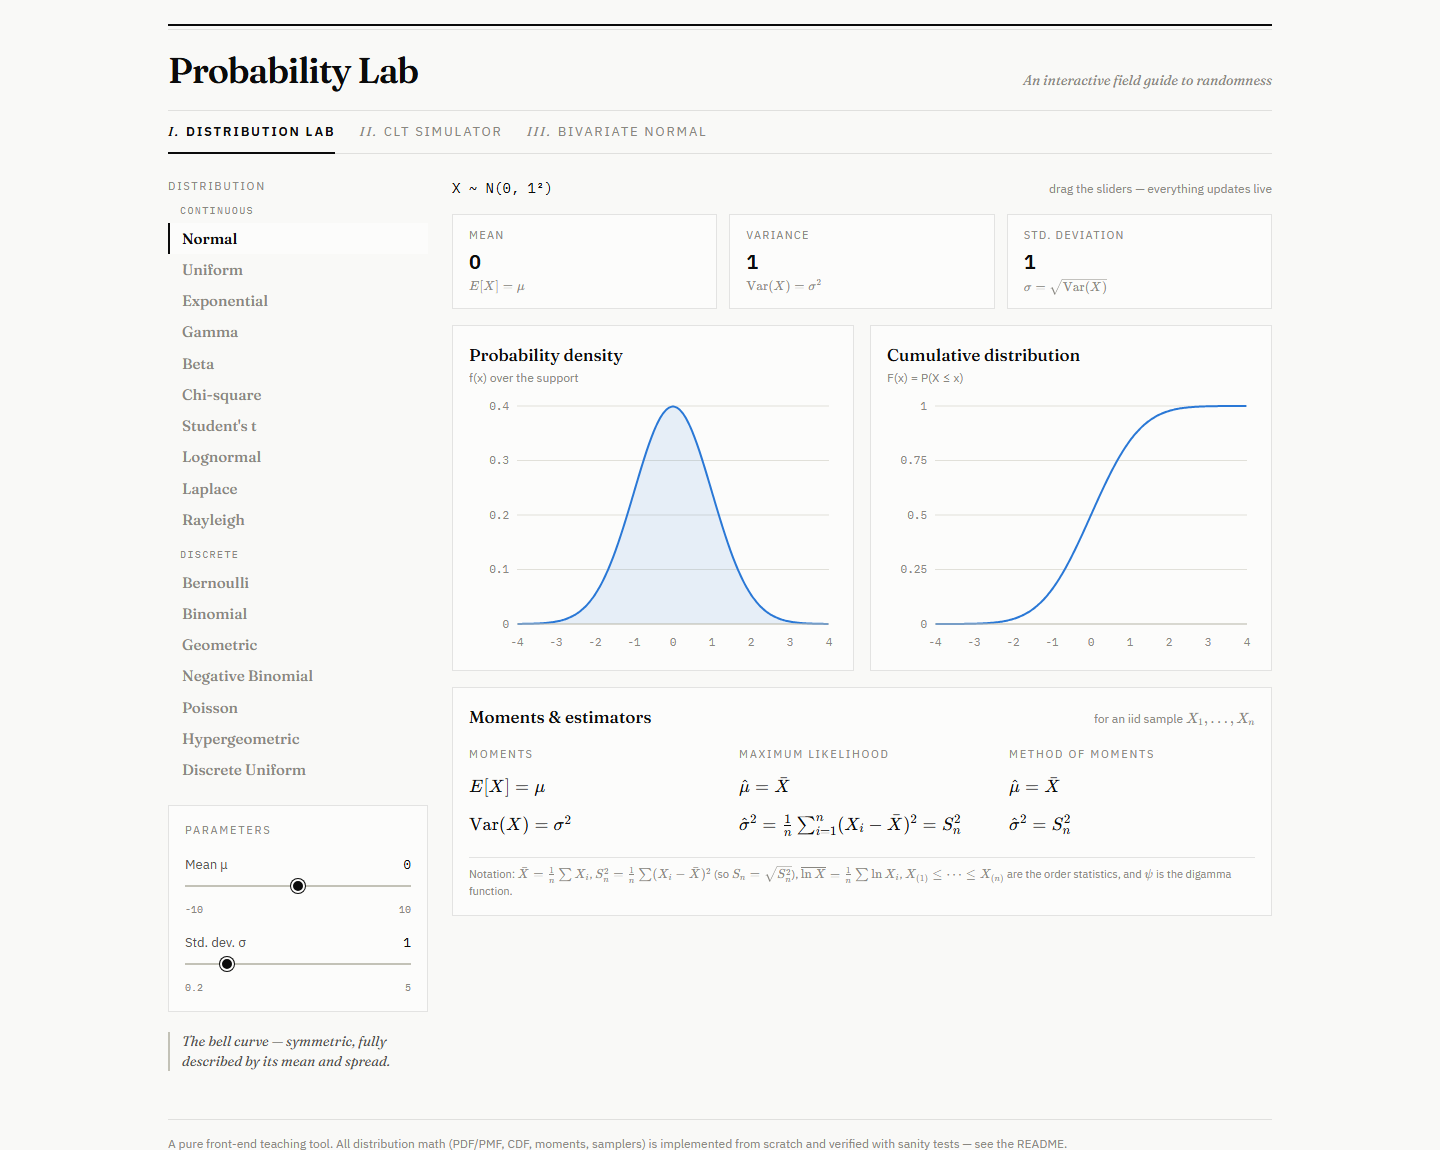
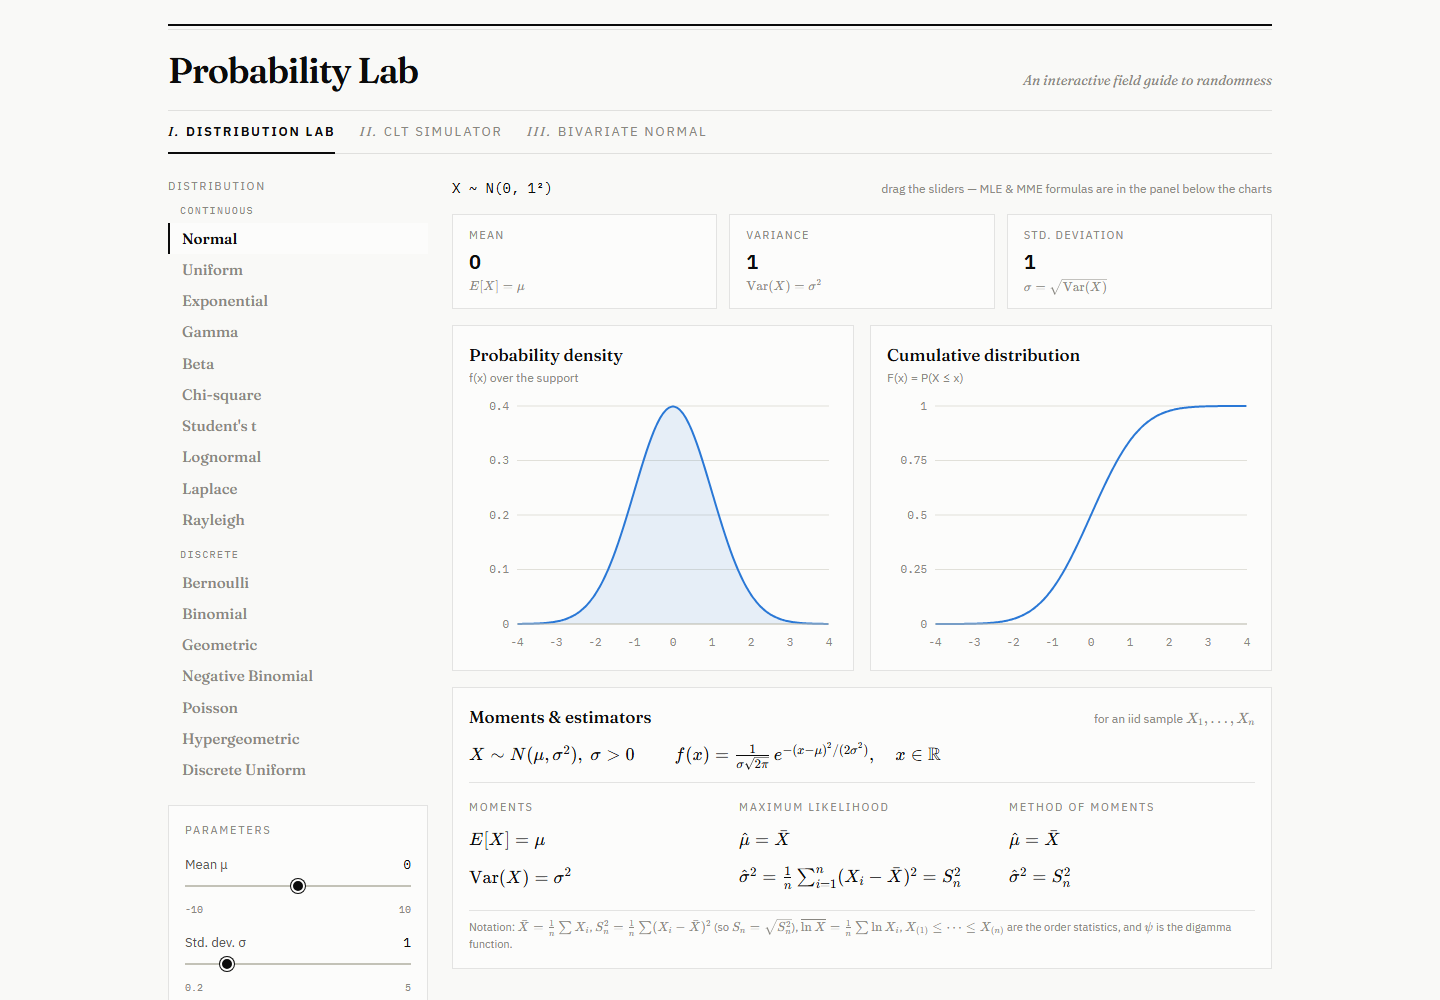
Define symbols before using them: model line in the estimator panel
Each distribution now carries formulas.model (X ~ Dist(params) with
constraints) and formulas.density (full pdf/pmf with support), rendered
at the top of Moments & estimators - so the mu/alpha/beta/k appearing in
the moment and MLE/MME formulas are always defined on screen.

diff --git a/src/lib/dists-continuous.js b/src/lib/dists-continuous.js
@@ -33,6 +33,8 @@ export const continuousDistributions = {
     range: (p) => [p.mu - 4 * p.sigma, p.mu + 4 * p.sigma],
     sample: (p, rng) => p.mu + p.sigma * sampleStdNormal(rng),
     formulas: {
+      model: 'X \\sim N(\\mu,\\sigma^2),\\ \\sigma>0',
+      density: 'f(x)=\\tfrac{1}{\\sigma\\sqrt{2\\pi}}\\,e^{-(x-\\mu)^2/(2\\sigma^2)},\\quad x\\in\\mathbb{R}',
       mean: '\\mu',
       variance: '\\sigma^2',
       mle: ['\\hat\\mu = \\bar X', '\\hat\\sigma^2 = \\tfrac{1}{n}\\sum_{i=1}^{n}(X_i-\\bar X)^2 = S_n^2'],
@@ -67,6 +69,8 @@ export const continuousDistributions = {
     },
     sample: (p, rng) => p.a + (p.b - p.a) * rng(),
     formulas: {
+      model: 'X \\sim U(a,b),\\ a<b',
+      density: 'f(x)=\\tfrac{1}{b-a},\\quad a\\le x\\le b',
       mean: '\\tfrac{a+b}{2}',
       variance: '\\tfrac{(b-a)^2}{12}',
       mle: ['\\hat a = X_{(1)}', '\\hat b = X_{(n)}'],
@@ -91,6 +95,8 @@ export const continuousDistributions = {
     range: (p) => [0, 6 / p.lambda],
     sample: (p, rng) => -Math.log(1 - rng()) / p.lambda,
     formulas: {
+      model: 'X \\sim \\mathrm{Exp}(\\lambda),\\ \\lambda>0',
+      density: 'f(x)=\\lambda e^{-\\lambda x},\\quad x\\ge 0',
       mean: '1/\\lambda',
       variance: '1/\\lambda^2',
       mle: ['\\hat\\lambda = 1/\\bar X'],
@@ -124,6 +130,8 @@ export const continuousDistributions = {
     },
     sample: (p, rng) => sampleGammaShape(p.alpha, rng) / p.rate,
     formulas: {
+      model: 'X \\sim \\mathrm{Gamma}(\\alpha,\\lambda),\\ \\alpha,\\lambda>0\\ \\text{(shape, rate)}',
+      density: 'f(x)=\\tfrac{\\lambda^{\\alpha}}{\\Gamma(\\alpha)}\\,x^{\\alpha-1}e^{-\\lambda x},\\quad x>0',
       mean: '\\alpha/\\lambda',
       variance: '\\alpha/\\lambda^2',
       mle: ['\\ln\\hat\\alpha - \\psi(\\hat\\alpha) = \\ln\\bar X - \\overline{\\ln X}', '\\hat\\lambda = \\hat\\alpha/\\bar X'],
@@ -162,6 +170,8 @@ export const continuousDistributions = {
       return x / (x + y)
     },
     formulas: {
+      model: 'X \\sim \\mathrm{Beta}(\\alpha,\\beta),\\ \\alpha,\\beta>0',
+      density: 'f(x)=\\tfrac{x^{\\alpha-1}(1-x)^{\\beta-1}}{B(\\alpha,\\beta)},\\quad 0<x<1',
       mean: '\\tfrac{\\alpha}{\\alpha+\\beta}',
       variance: '\\tfrac{\\alpha\\beta}{(\\alpha+\\beta)^2(\\alpha+\\beta+1)}',
       mle: [
@@ -197,6 +207,8 @@ export const continuousDistributions = {
     range: (p) => [0, p.k + 4.5 * Math.sqrt(2 * p.k)],
     sample: (p, rng) => 2 * sampleGammaShape(p.k / 2, rng),
     formulas: {
+      model: 'X \\sim \\chi^2_k,\\ k\\in\\{1,2,\\dots\\}',
+      density: 'f(x)=\\tfrac{1}{2^{k/2}\\Gamma(k/2)}\\,x^{k/2-1}e^{-x/2},\\quad x>0',
       mean: 'k',
       variance: '2k',
       mle: ['\\psi(\\hat k/2) = \\overline{\\ln X} - \\ln 2'],
@@ -233,6 +245,8 @@ export const continuousDistributions = {
     sample: (p, rng) =>
       sampleStdNormal(rng) / Math.sqrt((2 * sampleGammaShape(p.nu / 2, rng)) / p.nu),
     formulas: {
+      model: 'X \\sim t_\\nu,\\ \\nu>0',
+      density: 'f(x)=\\tfrac{\\Gamma\\left(\\frac{\\nu+1}{2}\\right)}{\\sqrt{\\nu\\pi}\\,\\Gamma\\left(\\frac{\\nu}{2}\\right)}\\left(1+\\tfrac{x^2}{\\nu}\\right)^{-\\frac{\\nu+1}{2}},\\quad x\\in\\mathbb{R}',
       mean: '0 \\quad (\\nu>1)',
       variance: '\\tfrac{\\nu}{\\nu-2} \\quad (\\nu>2)',
       mle: [],
@@ -269,6 +283,8 @@ export const continuousDistributions = {
     range: (p) => [0, Math.exp(p.mu + 3.2 * p.sigma)],
     sample: (p, rng) => Math.exp(p.mu + p.sigma * sampleStdNormal(rng)),
     formulas: {
+      model: '\\ln X \\sim N(\\mu,\\sigma^2),\\ \\sigma>0',
+      density: 'f(x)=\\tfrac{1}{x\\sigma\\sqrt{2\\pi}}\\,e^{-(\\ln x-\\mu)^2/(2\\sigma^2)},\\quad x>0',
       mean: 'e^{\\mu+\\sigma^2/2}',
       variance: '(e^{\\sigma^2}-1)\\,e^{2\\mu+\\sigma^2}',
       mle: ['\\hat\\mu = \\overline{\\ln X}', '\\hat\\sigma^2 = \\tfrac1n\\sum(\\ln X_i - \\hat\\mu)^2'],
@@ -302,6 +318,8 @@ export const continuousDistributions = {
       return p.mu - p.b * Math.sign(u) * Math.log(1 - 2 * Math.abs(u))
     },
     formulas: {
+      model: 'X \\sim \\mathrm{Laplace}(\\mu,b),\\ b>0',
+      density: 'f(x)=\\tfrac{1}{2b}\\,e^{-|x-\\mu|/b},\\quad x\\in\\mathbb{R}',
       mean: '\\mu',
       variance: '2b^2',
       mle: ['\\hat\\mu = \\operatorname{med}(X_1,\\dots,X_n)', '\\hat b = \\tfrac1n\\sum_{i=1}^n\\lvert X_i - \\hat\\mu\\rvert'],
@@ -329,6 +347,8 @@ export const continuousDistributions = {
     range: (p) => [0, 4.2 * p.sigma],
     sample: (p, rng) => p.sigma * Math.sqrt(-2 * Math.log(1 - rng())),
     formulas: {
+      model: 'X \\sim \\mathrm{Rayleigh}(\\sigma),\\ \\sigma>0',
+      density: 'f(x)=\\tfrac{x}{\\sigma^2}\\,e^{-x^2/(2\\sigma^2)},\\quad x\\ge 0',
       mean: '\\sigma\\sqrt{\\pi/2}',
       variance: '\\bigl(2-\\tfrac{\\pi}{2}\\bigr)\\sigma^2',
       mle: ['\\hat\\sigma = \\sqrt{\\tfrac{1}{2n}\\sum_{i=1}^n X_i^2}'],

diff --git a/src/lib/dists-discrete.js b/src/lib/dists-discrete.js
@@ -21,6 +21,8 @@ export const discreteDistributions = {
     range: () => [0, 1],
     sample: (p, rng) => (rng() < p.p ? 1 : 0),
     formulas: {
+      model: 'X \\sim \\mathrm{Ber}(p),\\ 0<p<1',
+      density: 'P(X=k)=p^k(1-p)^{1-k},\\quad k\\in\\{0,1\\}',
       mean: 'p',
       variance: 'p(1-p)',
       mle: ['\\hat p = \\bar X'],
@@ -60,6 +62,8 @@ export const discreteDistributions = {
       return s
     },
     formulas: {
+      model: 'X \\sim \\mathrm{Bin}(m,p),\\ 0<p<1',
+      density: 'P(X=k)=\\binom{m}{k}p^k(1-p)^{m-k},\\quad k=0,1,\\dots,m',
       mean: 'mp',
       variance: 'mp(1-p)',
       mle: ['\\hat p = \\bar X / m'],
@@ -93,6 +97,8 @@ export const discreteDistributions = {
     },
     sample: (p, rng) => Math.floor(Math.log(1 - rng()) / Math.log(1 - p.p)) + 1,
     formulas: {
+      model: 'X \\sim \\mathrm{Geom}(p),\\ 0<p<1\\ \\text{(trials until 1st success)}',
+      density: 'P(X=k)=p(1-p)^{k-1},\\quad k=1,2,\\dots',
       mean: '1/p',
       variance: '\\tfrac{1-p}{p^2}',
       mle: ['\\hat p = 1/\\bar X'],
@@ -136,6 +142,8 @@ export const discreteDistributions = {
       return total
     },
     formulas: {
+      model: 'X \\sim \\mathrm{NB}(r,p)\\ \\text{(trials until $r$-th success)}',
+      density: 'P(X=k)=\\binom{k-1}{r-1}p^{r}(1-p)^{k-r},\\quad k=r,r+1,\\dots',
       mean: 'r/p',
       variance: '\\tfrac{r(1-p)}{p^2}',
       mle: ['\\hat p = r/\\bar X'],
@@ -178,6 +186,8 @@ export const discreteDistributions = {
       return k
     },
     formulas: {
+      model: 'X \\sim \\mathrm{Poisson}(\\lambda),\\ \\lambda>0',
+      density: 'P(X=k)=\\tfrac{\\lambda^{k}e^{-\\lambda}}{k!},\\quad k=0,1,2,\\dots',
       mean: '\\lambda',
       variance: '\\lambda',
       mle: ['\\hat\\lambda = \\bar X'],
@@ -233,6 +243,8 @@ export const discreteDistributions = {
       return s
     },
     formulas: {
+      model: 'X \\sim \\mathrm{HG}(N,K,m)\\ \\text{($K$ successes in $N$; draw $m$ w/o replacement)}',
+      density: 'P(X=k)=\\tfrac{\\binom{K}{k}\\binom{N-K}{m-k}}{\\binom{N}{m}},\\quad \\max(0,m{+}K{-}N)\\le k\\le \\min(m,K)',
       mean: 'm\\tfrac{K}{N}',
       variance: 'm\\tfrac{K}{N}\\Bigl(1-\\tfrac{K}{N}\\Bigr)\\tfrac{N-m}{N-1}',
       mle: [],
@@ -274,6 +286,8 @@ export const discreteDistributions = {
     range: (p) => [p.a, p.b],
     sample: (p, rng) => p.a + Math.floor(rng() * (p.b - p.a + 1)),
     formulas: {
+      model: 'X \\sim U\\{a,\\dots,b\\},\\ a\\le b\\ \\text{integers}',
+      density: 'P(X=k)=\\tfrac{1}{b-a+1},\\quad k=a,a{+}1,\\dots,b',
       mean: '\\tfrac{a+b}{2}',
       variance: '\\tfrac{(b-a+1)^2-1}{12}',
       mle: ['\\hat a = X_{(1)}', '\\hat b = X_{(n)}'],

diff --git a/src/components/EstimationPanel.jsx b/src/components/EstimationPanel.jsx
@@ -27,6 +27,12 @@ export default function EstimationPanel({ dist }) {
           for an iid sample <TeX tex="X_1,\dots,X_n" />
         </span>
       </div>
+      {(f.model || f.density) && (
+        <div className="mt-3 flex flex-wrap items-baseline gap-x-10 gap-y-1.5 border-b border-hairline pb-3 text-[15px] text-ink">
+          {f.model && <TeX tex={f.model} />}
+          {f.density && <TeX tex={f.density} />}
+        </div>
+      )}
       <div className="mt-4 grid grid-cols-1 gap-6 md:grid-cols-3">
         <Column
           title="Moments"
